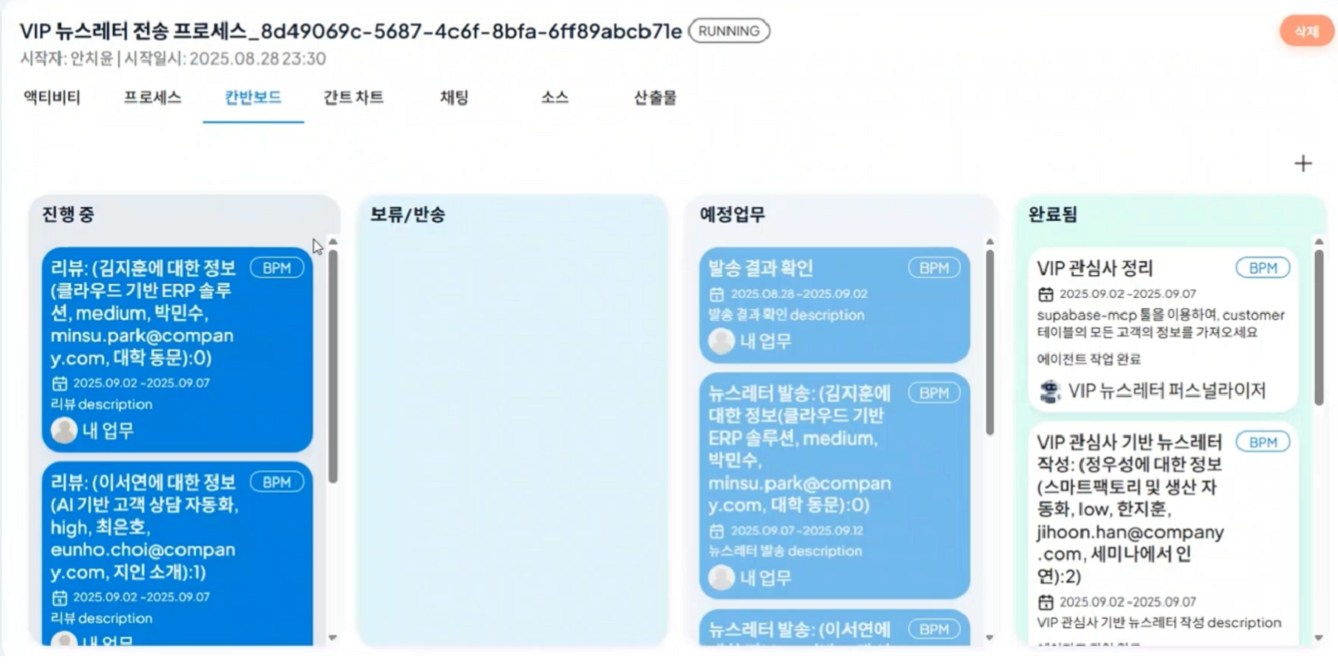
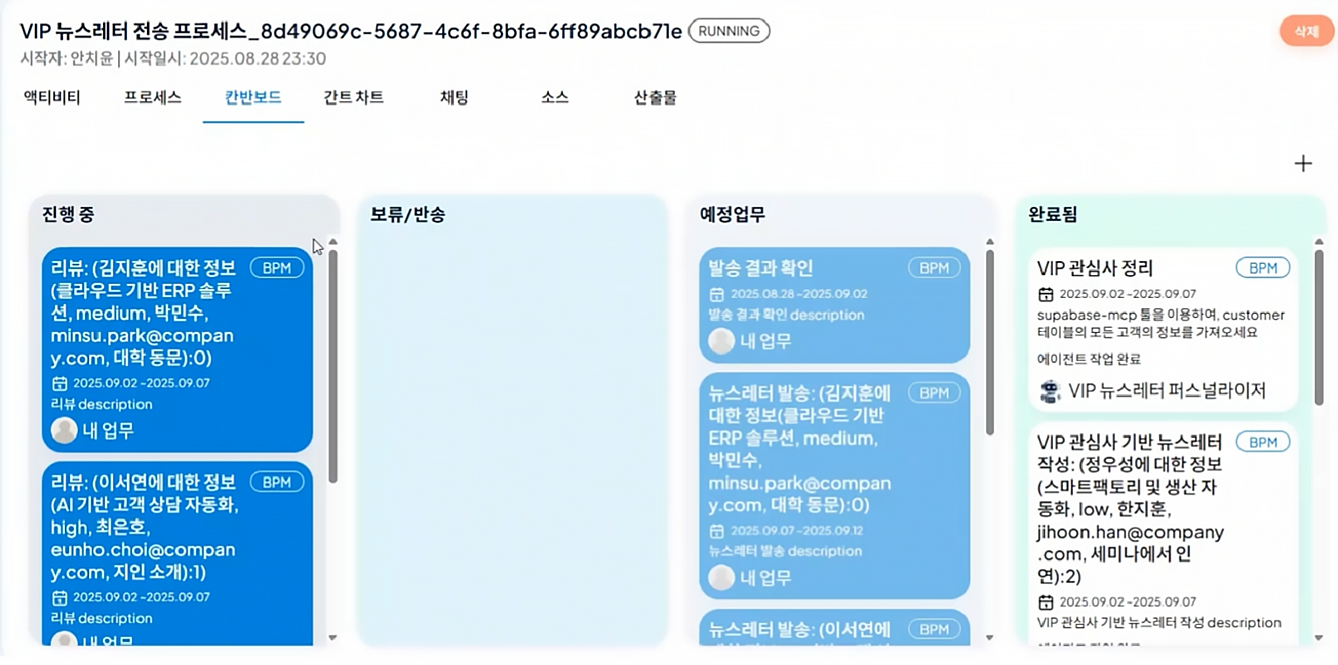
tutorial-lv5 한글 이미지 선명하게 & 영문화 이미지 전체 교체, 안쓰이는 이미지 삭제

diff --git a/content/en/tutorial/tutorial-lv5.md b/content/en/tutorial/tutorial-lv5.md
@@ -12,7 +12,7 @@ The agent creates a newsletter customized to the customer's interests and level 
 Therefore, each customer can automatically receive the customized newsletter optimized for themselves.  
 The generated draft is automatically sent when approved through the review process, and the result can also be checked individually by customer unit.
 
-![](../../../uengine-image/process-gpt/tutorial/lv5-0.png)
+![](../../../uengine-image/process-gpt/en/tutorial/lv5-0.png)
 <br>
 
 
@@ -21,10 +21,10 @@ The generated draft is automatically sent when approved through the review proce
 1. Register the marketing team in the organization chart, and create a customer management agent.
     Define the agent's role and goal, grant the necessary tools, and train the knowledge needed for customer management.
 
-![](../../../uengine-image/process-gpt/tutorial/lv5-1-1.png)
+![](../../../uengine-image/process-gpt/en/tutorial/lv5-1-1.png)
 <br>
 
-![](../../../uengine-image/process-gpt/tutorial/lv5-2-2.png)
+![](../../../uengine-image/process-gpt/en/tutorial/lv5-2-2.png)
 <br>
 
 
@@ -33,37 +33,37 @@ The generated draft is automatically sent when approved through the review proce
 1. Select 'Settings' > 'Data Source' menu on the right and enter the CRM data source information to use.
 (In this tutorial, Supabase is used as an example.)
 
-![](../../../uengine-image/process-gpt/tutorial/lv4-2.png)
+![](../../../uengine-image/process-gpt/en/tutorial/lv4-2.png)
 <br>
 
-![](../../../uengine-image/process-gpt/tutorial/lv5-3.png)
+![](../../../uengine-image/process-gpt/en/tutorial/lv5-3.png)
 <br>
 
 2. Use the curl example and API key in Read rows of Supabase API Docs to connect.
 
-![](../../../uengine-image/process-gpt/tutorial/lv4-3.png)
+![](../../../uengine-image/process-gpt/en/tutorial/lv4-3.png)
 <br>
 
 
 ### Process Creation and Form Modification
 
 1. Create a process in the definition management.
-    Click the “Create Extended Sub Process” icon at the top to set the process to run the multiple instance.
+    Click the “Create expanded SubProcess” icon at the top to set the process to run the multiple instance.
     When the multiple instance is set, the process branches by customer unit, and the customized mail writing and sending process is executed in parallel for each customer.
 
-![](../../../uengine-image/process-gpt/tutorial/lv5-4-1.png)
+![](../../../uengine-image/process-gpt/en/tutorial/lv5-4-1.png)
 <br>
 
 2. After creating the process, modify the form of each task according to the purpose.
    Set the task and the agent to use, and connect to Supabase as shown below.
 
-![](../../../uengine-image/process-gpt/tutorial/lv5-5.png)
+![](../../../uengine-image/process-gpt/en/tutorial/lv5-5.png)
 <br>
 
-![](../../../uengine-image/process-gpt/tutorial/lv5-6.png)
+![](../../../uengine-image/process-gpt/en/tutorial/lv5-6.png)
 <br>
 
-![](../../../uengine-image/process-gpt/tutorial/lv5-7-1.png)
+![](../../../uengine-image/process-gpt/en/tutorial/lv5-7-1.png)
 <br>
 
 
@@ -72,46 +72,46 @@ The generated draft is automatically sent when approved through the review proce
 1. Execute the process to write the newsletter draft.
    Use the source add function at the bottom left to upload a file to refer to, or click "Quick Example" to generate a draft automatically based on LLM.
 
-![](../../../uengine-image/process-gpt/tutorial/lv5-9.png)
+![](../../../uengine-image/process-gpt/en/tutorial/lv5-9.png)
 <br>
 
 2. Based on the generated draft, the agent uses the granted Supabase mcp tool to check the customer information linked to the CRM data, and creates a customized newsletter for each customer based on it.
 
-![](../../../uengine-image/process-gpt/tutorial/lv5-11.png)
+![](../../../uengine-image/process-gpt/en/tutorial/lv5-11.png)
 <br>
 
-![](../../../uengine-image/process-gpt/tutorial/lv5-12.png)
+![](../../../uengine-image/process-gpt/en/tutorial/lv5-12.png)
 <br>
 
 3. The customized newsletter created for the three customers linked to the CRM data.
 
 Using the internal CRM data, the customized newsletter is created for each customer as shown in the image below.
 
-![](../../../uengine-image/process-gpt/tutorial/lv5-3.png)
+![](../../../uengine-image/process-gpt/en/tutorial/lv5-3.png)
 <br>
 
 The newsletter written for the Lee Seoyeon customer. It is a newsletter targeting the introduction of a friend and the customer's interest in AI-based customer consultation automation.
 
-![](../../../uengine-image/process-gpt/tutorial/lv5-27.png)
+![](../../../uengine-image/process-gpt/en/tutorial/lv5-27.png)
 <br>
 
-![](../../../uengine-image/process-gpt/tutorial/lv5-21(lee).png)
+![](../../../uengine-image/process-gpt/en/tutorial/lv5-21(lee).png)
 <br>
 
 The newsletter written for the Jung Woo-seong customer. It is a newsletter targeting the customer's interest in smart factory and production automation.
 
-![](../../../uengine-image/process-gpt/tutorial/lv5-25.png)
+![](../../../uengine-image/process-gpt/en/tutorial/lv5-25.png)
 <br>
 
-![](../../../uengine-image/process-gpt/tutorial/lv5-23(jung).png)
+![](../../../uengine-image/process-gpt/en/tutorial/lv5-23(jung).png)
 <br>
 
 The newsletter written for the Kim Ji-hoon customer. It is a newsletter targeting the customer's interest in cloud-based ERP solution.
 
-![](../../../uengine-image/process-gpt/tutorial/lv5-26.png)
+![](../../../uengine-image/process-gpt/en/tutorial/lv5-26.png)
 <br>
 
-![](../../../uengine-image/process-gpt/tutorial/lv5-22(kim).png)
+![](../../../uengine-image/process-gpt/en/tutorial/lv5-22(kim).png)
 <br>
 
 
@@ -119,19 +119,19 @@ The newsletter written for the Kim Ji-hoon customer. It is a newsletter targetin
 
 1. The user in charge of the decision approves the draft written by the agent. Based on the result, it can instruct approval (payment complete) or re-writing.
 
-![](../../../uengine-image/process-gpt/tutorial/lv5-15.png)
+![](../../../uengine-image/process-gpt/en/tutorial/lv5-15.png)
 <br>
 
 2. The newsletter approved is sent to the customer's email address registered in the CRM data.
    
 
-![](../../../uengine-image/process-gpt/tutorial/lv5-16.png)
+![](../../../uengine-image/process-gpt/en/tutorial/lv5-16.png)
 <br>
 
-![](../../../uengine-image/process-gpt/tutorial/lv5-17.png)
+![](../../../uengine-image/process-gpt/en/tutorial/lv5-17.png)
 <br>
 
-![](../../../uengine-image/process-gpt/tutorial/lv5-18.png)
+![](../../../uengine-image/process-gpt/en/tutorial/lv5-18.png)
 <br>
 
 
@@ -139,8 +139,8 @@ The newsletter written for the Kim Ji-hoon customer. It is a newsletter targetin
 
 1. The decision-maker provides the agent with a rewrite opinion and feedback on the draft written by the agent, and the agent rewrites based on the review content.
 
-![](../../../uengine-image/process-gpt/tutorial/lv5-19.png)
+![](../../../uengine-image/process-gpt/en/tutorial/lv5-19.png)
 <br>
 
-![](../../../uengine-image/process-gpt/tutorial/lv5-20.png)
+![](../../../uengine-image/process-gpt/en/tutorial/lv5-20.png)
 <br>
